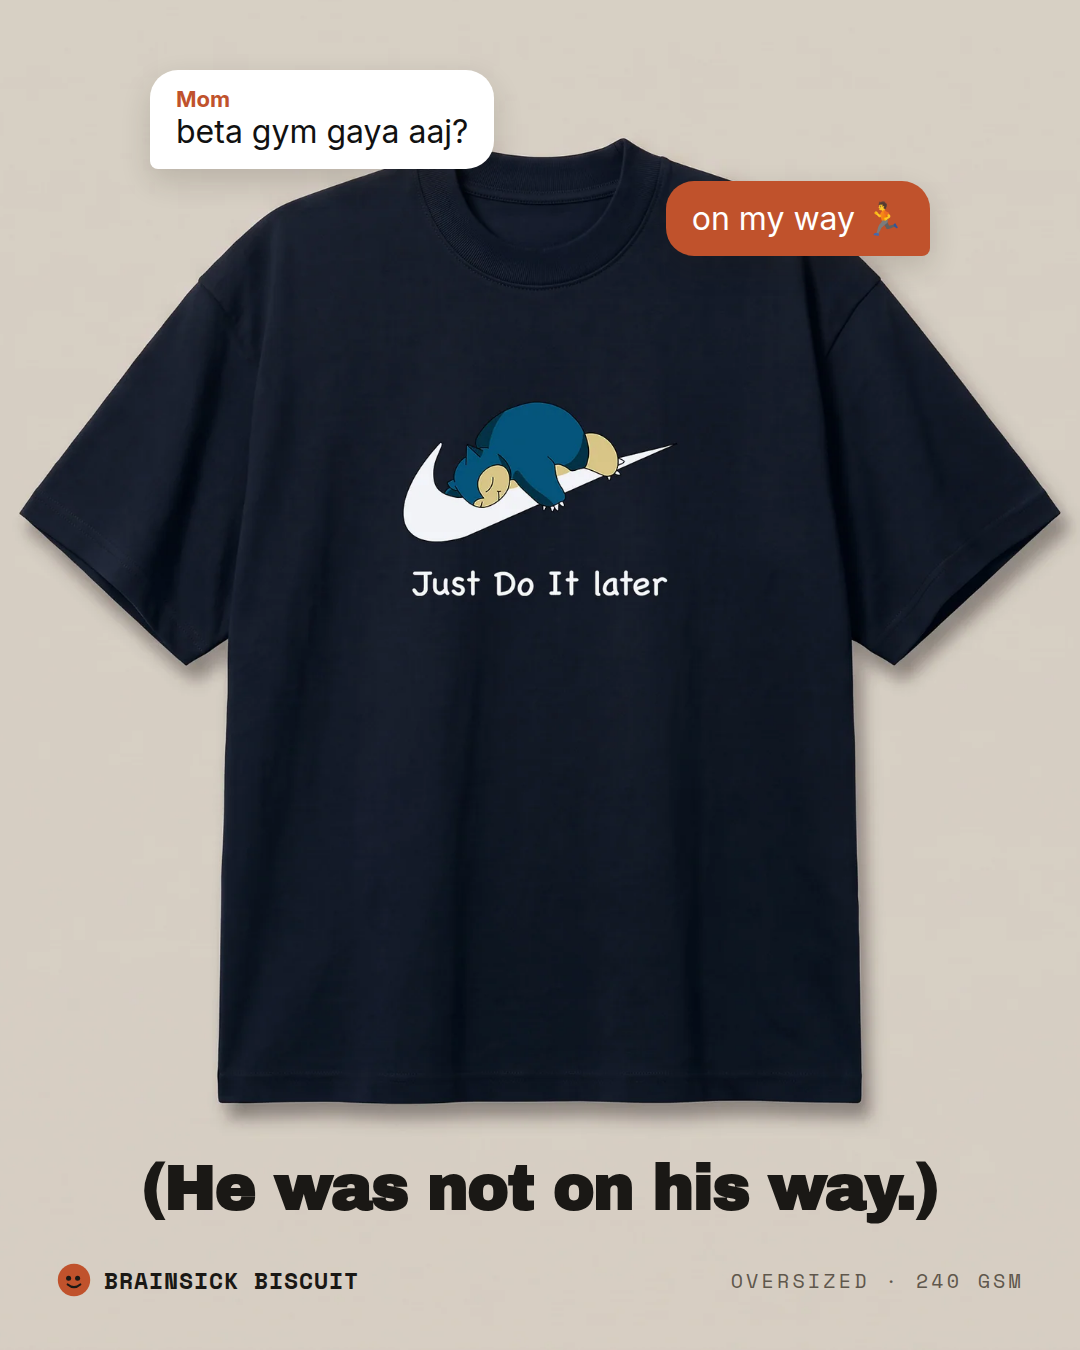
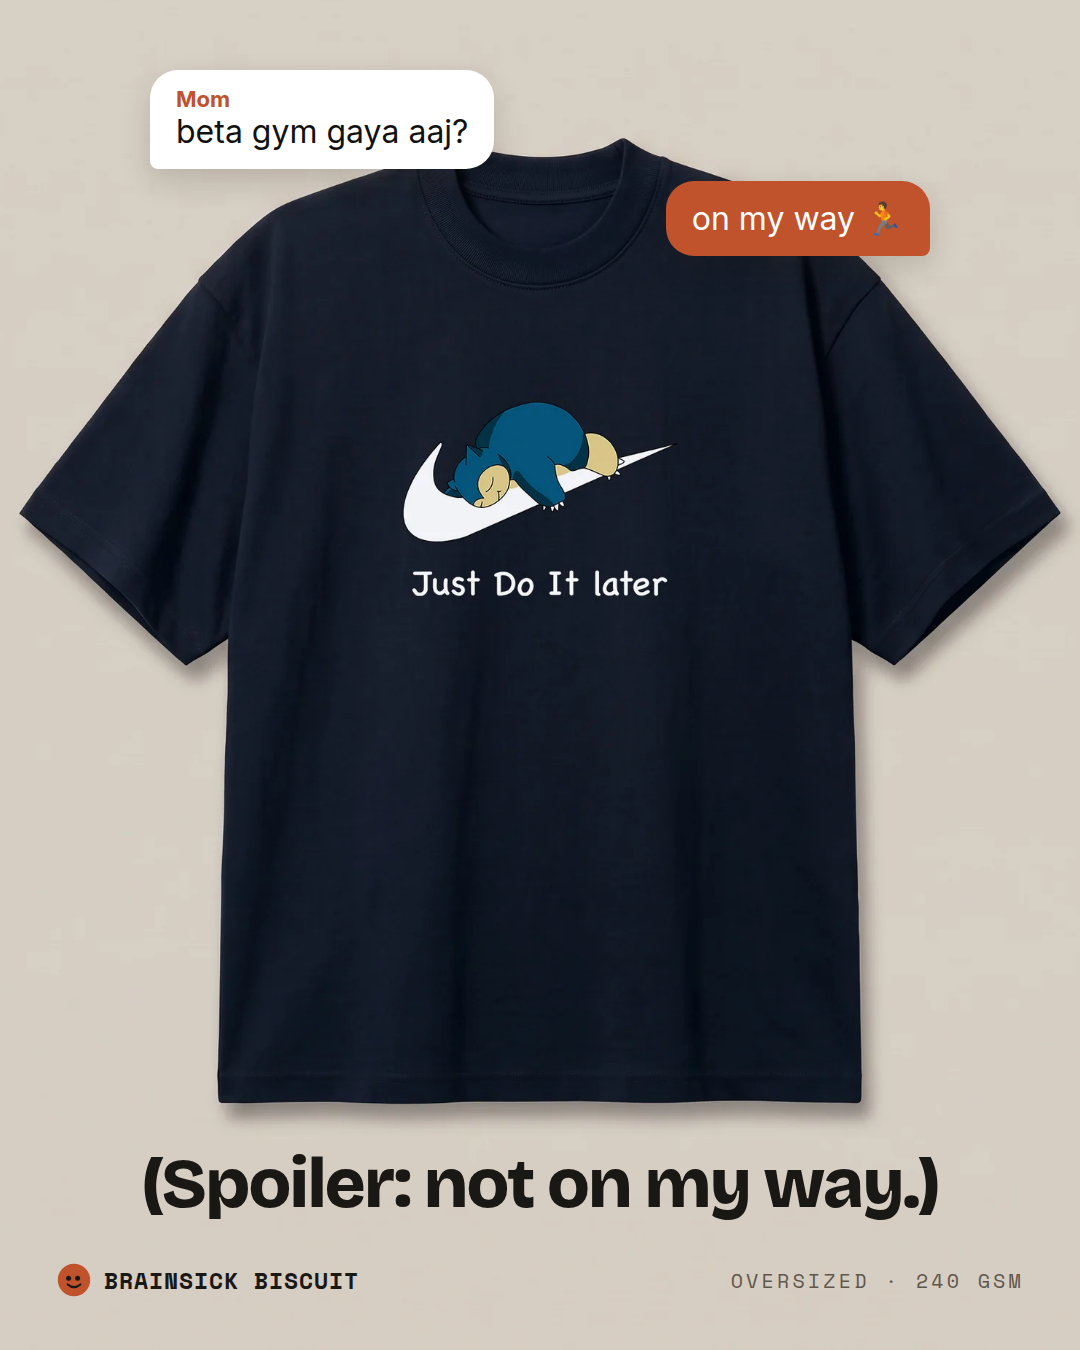
Switch ad headlines to Bricolage Grotesque
Re-render all 21 ads with the new headline font; neutral copy for the Snorlax chat headline.

Claude-Session: https://claude.ai/code/session_01WD2CyBmECwUA2EiUd3ooRo

Changed region(s): [[0.1222, 0.84, 0.8556, 0.9022]]

diff --git a/meta-ads/template/base.css b/meta-ads/template/base.css
@@ -7,7 +7,7 @@
 :root{
   --cream:#EFEBE0; --surface:#FBF9F3; --ink:#1A1815; --muted:#8A8377;
   --line:#DED8C9; --accent:#C0522C; --accent-ink:#7E3417; --photo:#D9D3C8;
-  --mono:'Space Mono',ui-monospace,monospace; --display:'Archivo Black','Space Mono',sans-serif;
+  --mono:'Space Mono',ui-monospace,monospace; --display:'Bricolage','Archivo Black',sans-serif;
 }
 *{box-sizing:border-box;margin:0;padding:0}
 html,body{background:var(--cream);color:var(--ink);font-family:var(--mono);overflow:hidden}
@@ -32,3 +32,9 @@ html,body{background:var(--cream);color:var(--ink);font-family:var(--mono);overf
 @font-face{font-family:'Inter';font-weight:100 900;src:url(fonts/inter.woff2) format('woff2')}
 @font-face{font-family:'Marker';src:url(fonts/marker.woff2) format('woff2')}
 @font-face{font-family:'Anton';src:url(fonts/anton.woff2) format('woff2')}
+@font-face{font-family:'Bricolage';font-weight:800;src:url(fonts/bricolage.woff2) format('woff2')}
+@font-face{font-family:'CaveatBrush';src:url(fonts/caveat.woff2) format('woff2')}
+@font-face{font-family:'RubikMono';src:url(fonts/rubikmono.woff2) format('woff2')}
+@font-face{font-family:'Bowlby';src:url(fonts/bowlby.woff2) format('woff2')}
+@font-face{font-family:'Instrument';font-style:italic;src:url(fonts/instrument.woff2) format('woff2')}
+h1,.q{font-weight:800}

diff --git a/meta-ads/template/gen3.py b/meta-ads/template/gen3.py
@@ -13,7 +13,7 @@ COPY = {
         dating=dict(prompt='My most irrational fear', answer='“Can we talk?” with no context.', headline='Swipe right on fear.'),
     ),
     'snorlax': dict(
-        chat=dict(who='Mom', them='beta gym gaya aaj?', me='on my way 🏃', headline='(He was not on his way.)'),
+        chat=dict(who='Mom', them='beta gym gaya aaj?', me='on my way 🏃', headline='(Spoiler: not on my way.)'),
         captcha=dict(label="I'm a morning person", headline='Verification failed.'),
         battery=dict(title='Motivation Low', body='2% remaining. Take a nap?', a='Later', b='Nap',
                      headline='Just do it later.'),
@@ -35,7 +35,7 @@ def frame(t, widget_css, widget_html, headline):
 .bg{{position:absolute;inset:0;background:url({t['img']}) 50% 100%/108% no-repeat}}
 .w{{position:absolute;left:150px;right:150px;top:70px;font-family:Inter,sans-serif}}
 {widget_css}
-h1{{position:absolute;left:56px;right:56px;bottom:130px;text-align:center;font-family:var(--display);color:var(--ink);font-size:62px;line-height:1.02;letter-spacing:-.02em}}
+h1{{position:absolute;left:56px;right:56px;bottom:130px;text-align:center;font-family:var(--display);color:var(--ink);font-size:70px;line-height:1.02;letter-spacing:-.03em}}
 .foot{{position:absolute;left:56px;right:56px;bottom:52px;display:flex;justify-content:space-between;align-items:center}}
 .brand{{display:flex;align-items:center;gap:12px;font-family:var(--mono);font-weight:700;font-size:23px;letter-spacing:.04em;color:var(--ink)}}
 .meta{{font-family:var(--mono);font-size:20px;letter-spacing:.16em;color:#5f574c}}

diff --git a/meta-ads/template/gen.py b/meta-ads/template/gen.py
@@ -55,7 +55,7 @@ def notif(t):
 .n .r{{display:flex;justify-content:space-between;font-size:24px;color:#7a7a7a}}
 .n .r b{{color:#111;font-weight:700;font-size:28px}}
 .n p{{font-size:29px;color:#111;margin-top:6px}}
-h1{{position:absolute;left:56px;right:56px;bottom:130px;text-align:center;font-family:var(--display);color:var(--ink);font-size:62px;line-height:1.02;letter-spacing:-.02em}}
+h1{{position:absolute;left:56px;right:56px;bottom:130px;text-align:center;font-family:var(--display);color:var(--ink);font-size:70px;line-height:1.02;letter-spacing:-.03em}}
 .foot{{position:absolute;left:56px;right:56px;bottom:52px;display:flex;justify-content:space-between;align-items:center}}
 .brand{{display:flex;align-items:center;gap:12px;font-family:var(--mono);font-weight:700;font-size:23px;letter-spacing:.04em;color:var(--ink)}}
 .meta{{font-family:var(--mono);font-size:20px;letter-spacing:.16em;color:#5f574c}}
@@ -95,7 +95,7 @@ def split(t):
 .them{{background:#E4E0D6;color:#8A8377}}
 .us{{background:var(--accent);color:#fff}}
 .lbl{{font-family:var(--mono);font-size:24px;letter-spacing:.18em}}
-.q{{font-family:var(--display);font-size:54px;line-height:1.02}}
+.q{{font-family:var(--display);font-size:60px;line-height:1.02;letter-spacing:-.03em}}
 .them .q{{text-decoration:line-through;text-decoration-thickness:8px;text-decoration-color:var(--accent)}}
 ul{{list-style:none;font-family:var(--mono);font-size:22px;line-height:1.7}}
 .photo{{flex:1;min-height:0;overflow:hidden;position:relative;background:{t['bg']} url({t['img']}) 50% 38%/cover no-repeat}}
